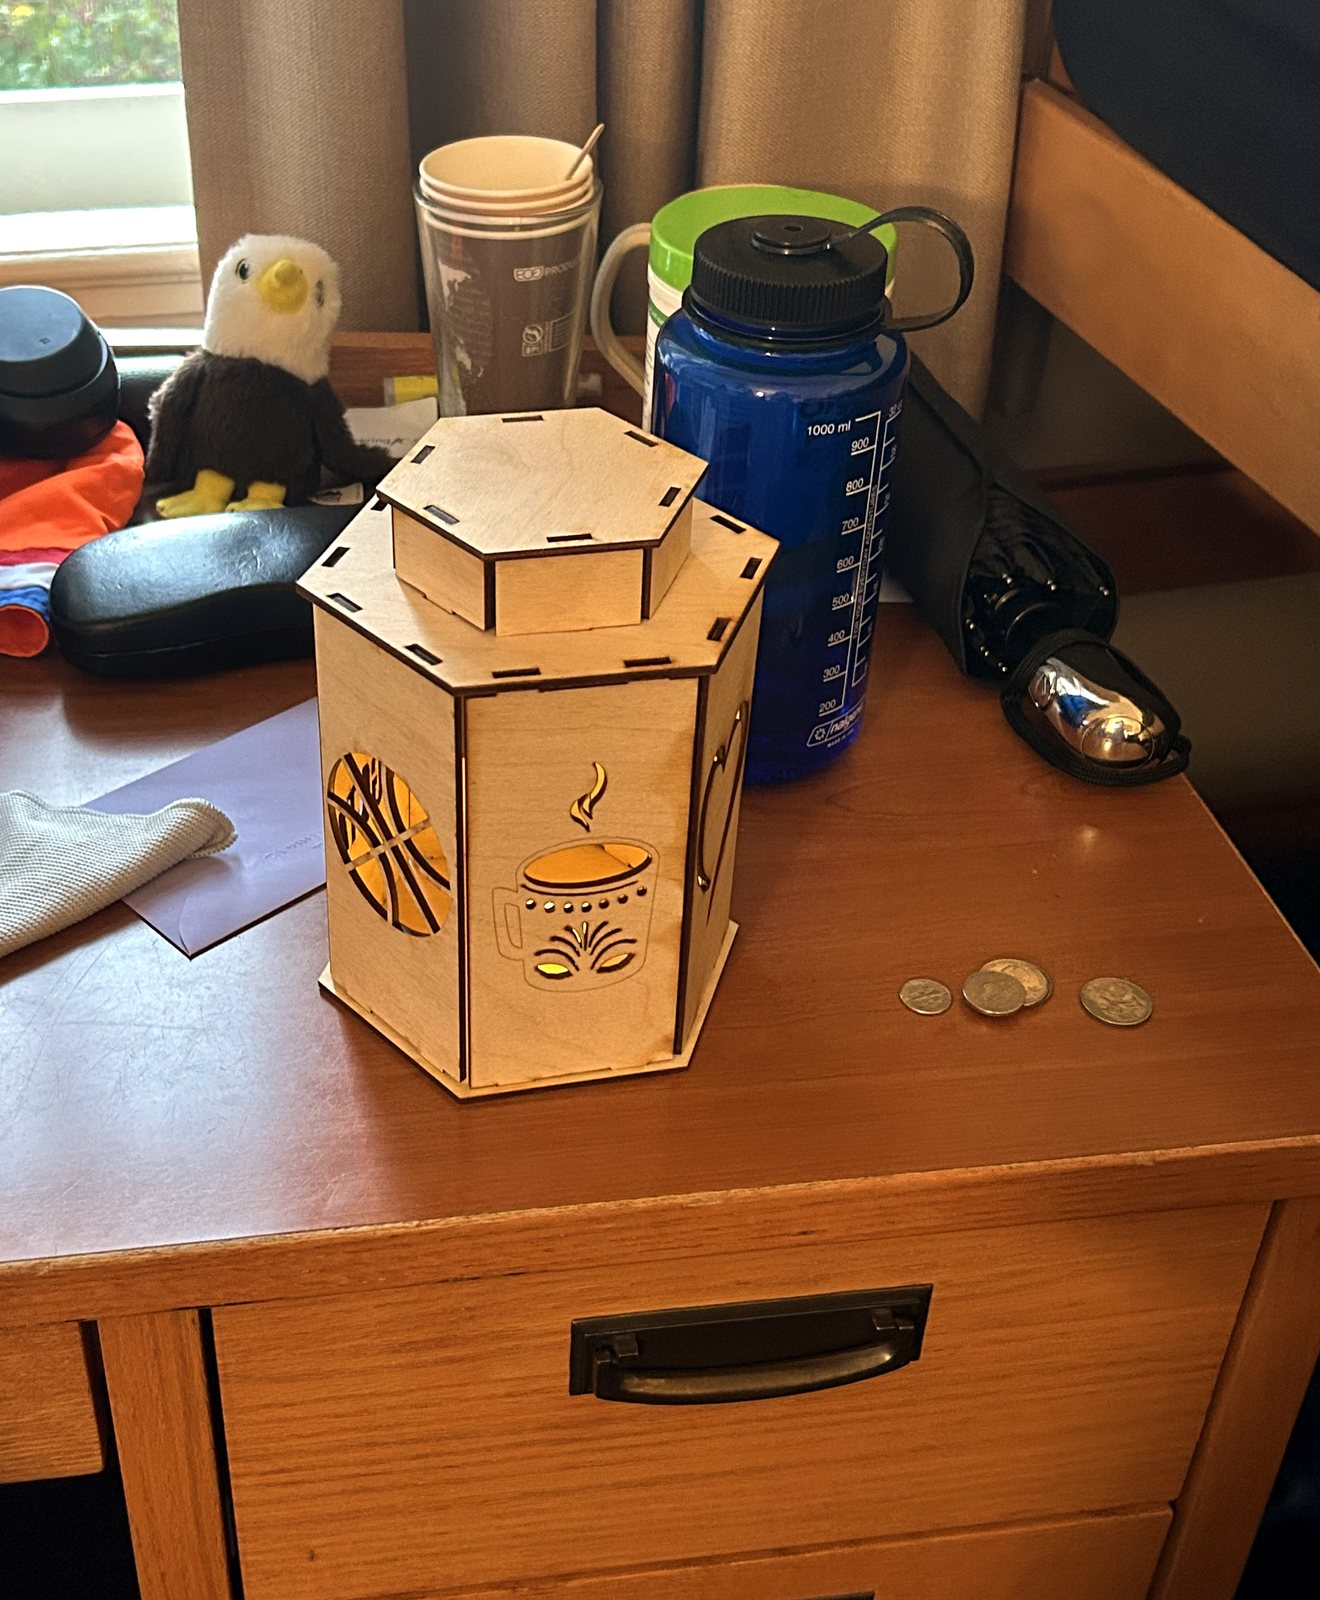
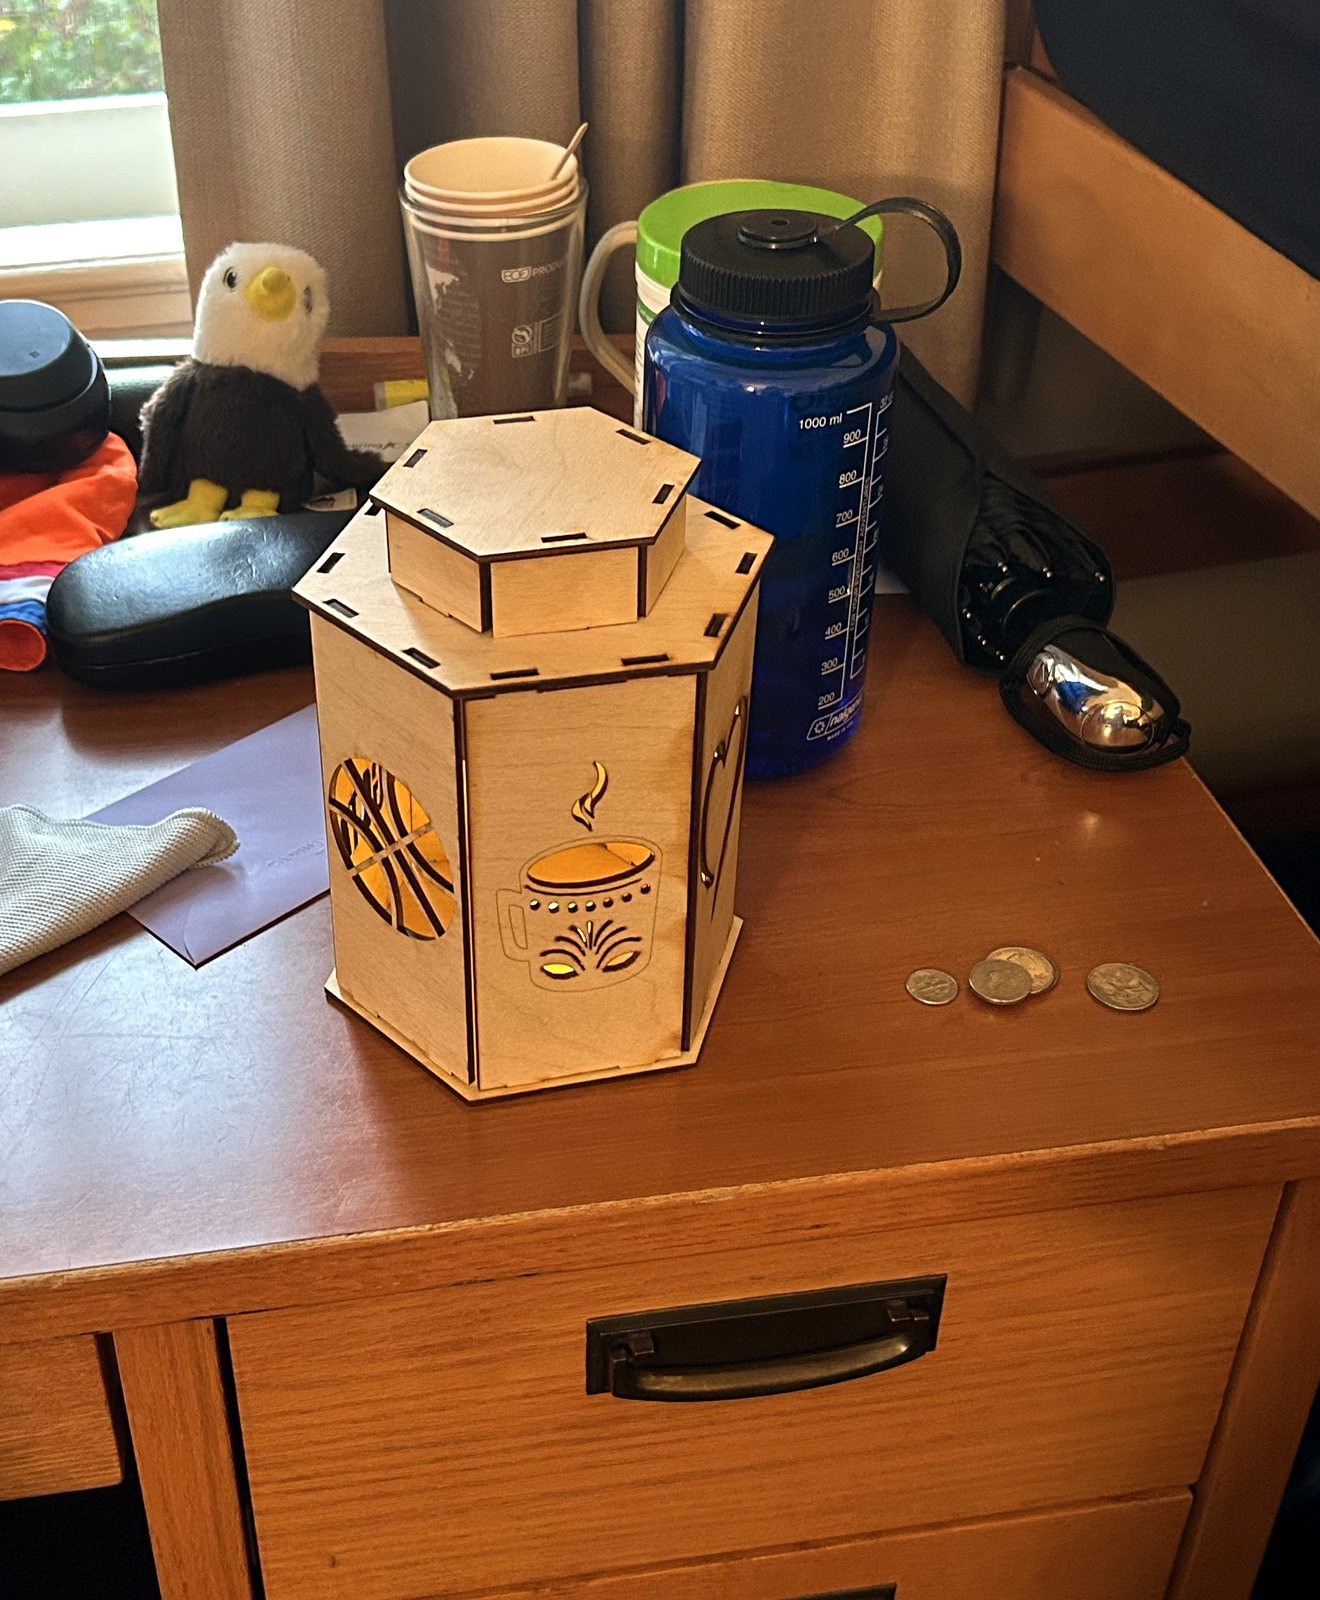
Straighten lantern and pumpkin photos

diff --git a/projects.html b/projects.html
@@ -188,7 +188,7 @@
     </div>
     <div class="pair" style="align-items:center">
       <figure class="tilt"><img src="img/lantern.jpg" loading="lazy" width="1320" height="1600" alt="Laser-cut wooden hexagonal lantern with an engraved design, on a desk."></figure>
-      <figure class="tilt r"><img src="img/pumpkin.jpg" loading="lazy" width="899" height="806" alt="A pumpkin made of laser-cut wooden ribs slotted into two hubs, with a curved stem."></figure>
+      <figure class="tilt r"><img src="img/pumpkin.jpg" loading="lazy" width="831" height="761" alt="A pumpkin made of laser-cut wooden ribs slotted into two hubs, with a curved stem."></figure>
     </div>
   </div>
 </section>
